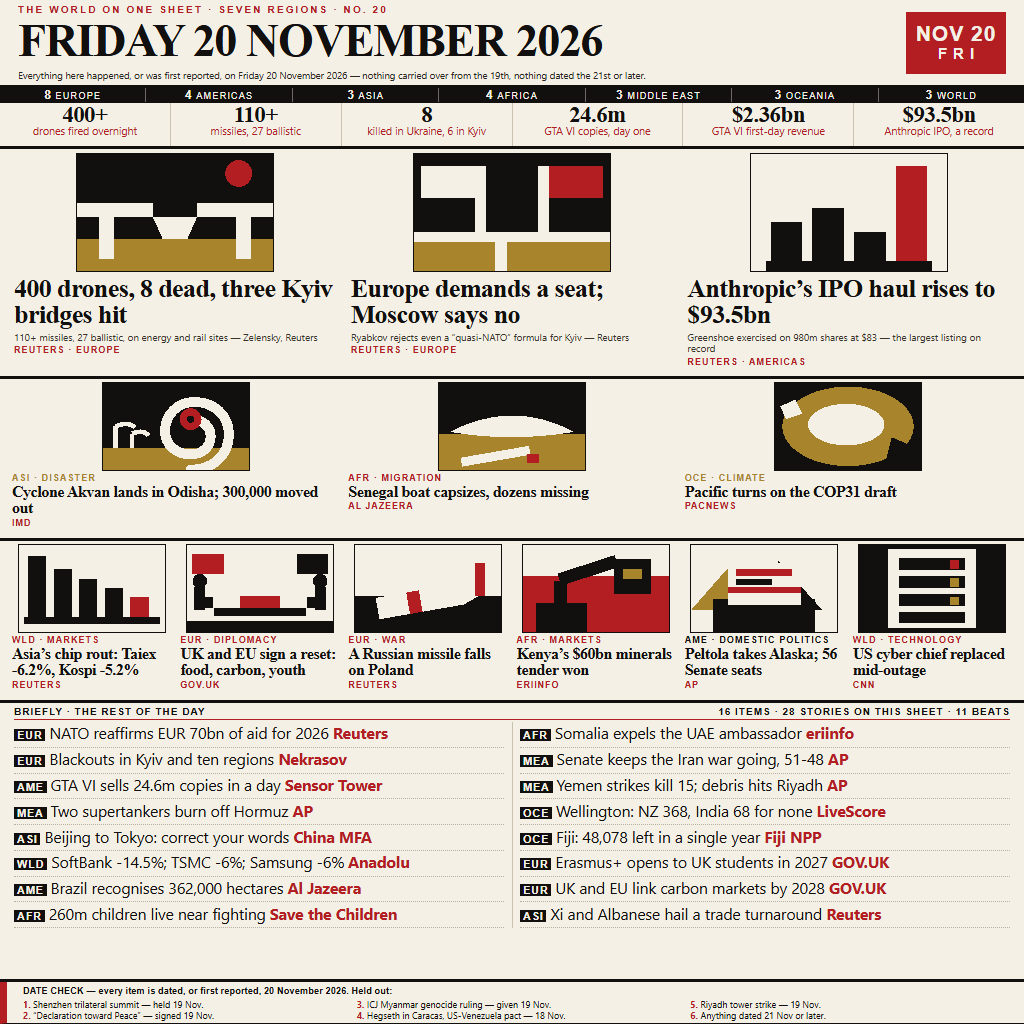
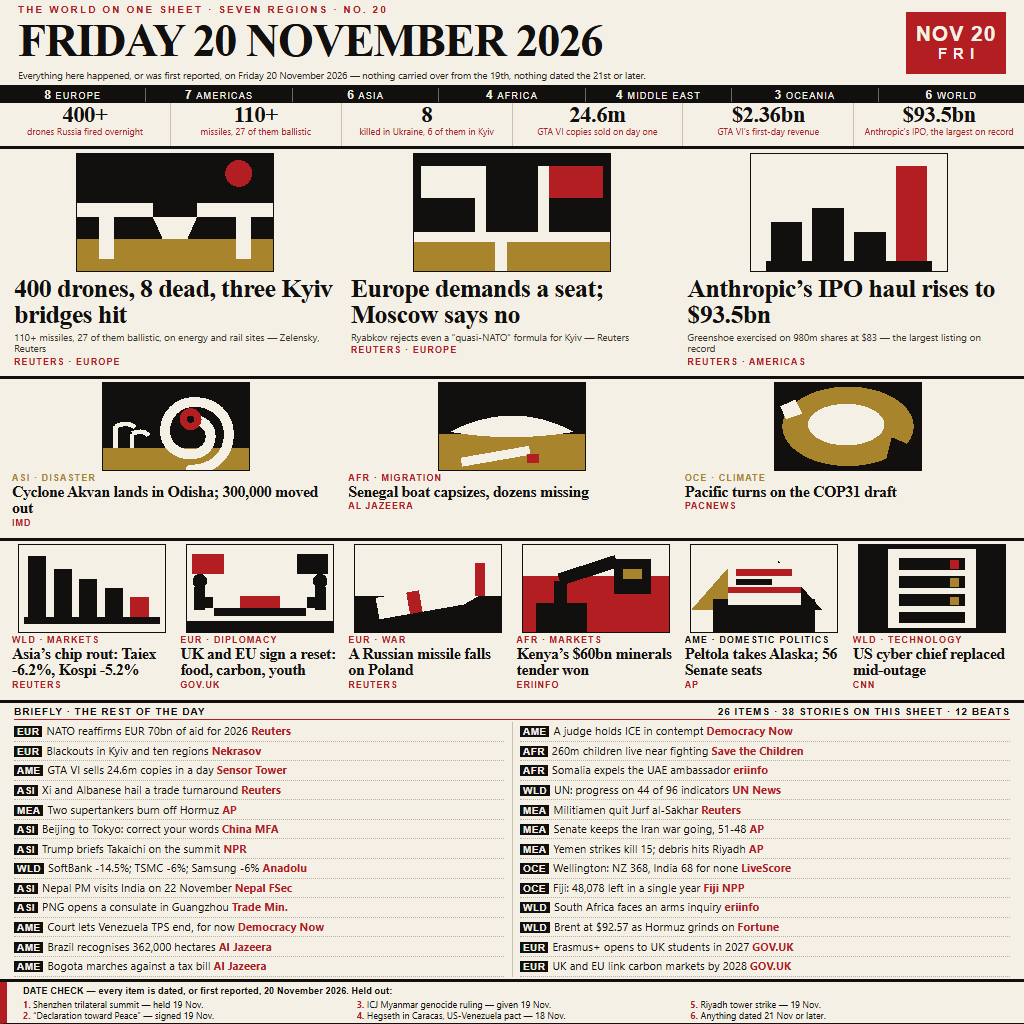
Restore 38 stories; nudge briefs to 12.4px without cutting any story

diff --git a/page.html b/page.html
@@ -32,7 +32,7 @@ html,body{width:1024px;height:1024px;overflow:hidden;background:#f4f0e6;color:#1
   border-right:1px solid #c9c1ae;padding:0 2px}
 .numbers .n:last-child{border-right:0}
 .numbers .v{font-size:23px;font-weight:700;line-height:23px;letter-spacing:-.6px;white-space:nowrap}
-.numbers .lb{font-family:"Segoe UI",Arial,sans-serif;font-size:10.6px;line-height:11.6px;color:#b21e22;
+.numbers .lb{font-family:"Segoe UI",Arial,sans-serif;font-size:9px;line-height:10.4px;color:#b21e22;
   text-align:center;max-width:100%;height:21px;overflow:visible}
 
 .leads{height:230px;display:flex;padding:4px 14px 4px;gap:14px;border-bottom:3px solid #12100e}
@@ -60,9 +60,9 @@ html,body{width:1024px;height:1024px;overflow:hidden;background:#f4f0e6;color:#1
   margin-bottom:2px;display:flex;justify-content:space-between}
 .bh span{color:#12100e;letter-spacing:1px}
 .bcols{columns:2;column-gap:16px;column-rule:1px solid #c9c1ae}
-.brief{font-family:"Segoe UI",Arial,sans-serif;font-size:15.5px;line-height:18px;
-  padding:2.4px 0 2.4px;border-bottom:1px dotted #b9b0a0;break-inside:avoid}
-.brief .rt{font-family:Arial,Helvetica,sans-serif;font-size:11px;font-weight:700;letter-spacing:.7px;
+.brief{font-family:"Segoe UI",Arial,sans-serif;font-size:11.2px;line-height:13.2px;
+  padding:2.2px 0 2.2px;border-bottom:1px dotted #b9b0a0;break-inside:avoid}
+.brief .rt{font-family:Arial,Helvetica,sans-serif;font-size:9.6px;font-weight:700;letter-spacing:.7px;
   background:#12100e;color:#f4f0e6;padding:0 3px;margin-right:4px}
 .brief .ot{color:#b21e22;font-weight:700}
 
@@ -88,9 +88,9 @@ html,body{width:1024px;height:1024px;overflow:hidden;background:#f4f0e6;color:#1
     <div class="redblock"><div class="big">NOV 20</div><div class="sm">FRI</div></div>
   </div>
 
-  <div class="band tally"><div data-region-tally="Europe"><b>8</b>Europe</div><div data-region-tally="Americas"><b>4</b>Americas</div><div data-region-tally="Asia"><b>3</b>Asia</div><div data-region-tally="Africa"><b>4</b>Africa</div><div data-region-tally="Middle East"><b>3</b>Middle East</div><div data-region-tally="Oceania"><b>3</b>Oceania</div><div data-region-tally="World"><b>3</b>World</div></div>
+  <div class="band tally"><div data-region-tally="Europe"><b>8</b>Europe</div><div data-region-tally="Americas"><b>7</b>Americas</div><div data-region-tally="Asia"><b>6</b>Asia</div><div data-region-tally="Africa"><b>4</b>Africa</div><div data-region-tally="Middle East"><b>4</b>Middle East</div><div data-region-tally="Oceania"><b>3</b>Oceania</div><div data-region-tally="World"><b>6</b>World</div></div>
 
-  <div class="band numbers"><div class="n"><div class="v">400+</div><div class="lb">drones fired overnight</div></div><div class="n"><div class="v">110+</div><div class="lb">missiles, 27 ballistic</div></div><div class="n"><div class="v">8</div><div class="lb">killed in Ukraine, 6 in Kyiv</div></div><div class="n"><div class="v">24.6m</div><div class="lb">GTA VI copies, day one</div></div><div class="n"><div class="v">$2.36bn</div><div class="lb">GTA VI first-day revenue</div></div><div class="n"><div class="v">$93.5bn</div><div class="lb">Anthropic IPO, a record</div></div></div>
+  <div class="band numbers"><div class="n"><div class="v">400+</div><div class="lb">drones Russia fired overnight</div></div><div class="n"><div class="v">110+</div><div class="lb">missiles, 27 of them ballistic</div></div><div class="n"><div class="v">8</div><div class="lb">killed in Ukraine, 6 of them in Kyiv</div></div><div class="n"><div class="v">24.6m</div><div class="lb">GTA VI copies sold on day one</div></div><div class="n"><div class="v">$2.36bn</div><div class="lb">GTA VI’s first-day revenue</div></div><div class="n"><div class="v">$93.5bn</div><div class="lb">Anthropic’s IPO, the largest on record</div></div></div>
 
   <div class="band leads"><div class="lead" data-region="Europe" data-beat="war" data-outlet="Reuters">
       <div class="artbox" data-art="bridge"><svg aria-label="400 drones, 8 dead, three Kyiv bridges hit" viewBox="0 0 160 96" width="100%" height="100%" preserveAspectRatio="none" shape-rendering="crispEdges">
@@ -103,7 +103,7 @@ html,body{width:1024px;height:1024px;overflow:hidden;background:#f4f0e6;color:#1
   <rect x="130" y="52" width="12" height="34" fill="#f4f0e6"/>
   <circle cx="132" cy="16" r="11" fill="#b21e22"/></svg></div>
       <h2>400 drones, 8 dead, three Kyiv bridges hit</h2>
-      <div class="deck">110+ missiles, 27 ballistic, on energy and rail sites — Zelensky, Reuters</div>
+      <div class="deck">110+ missiles, 27 of them ballistic, on energy and rail sites — Zelensky, Reuters</div>
       <div class="ft">Reuters · Europe</div>
     </div><div class="lead" data-region="Europe" data-beat="diplomacy" data-outlet="Reuters">
       <div class="artbox" data-art="lecterns"><svg aria-label="Europe demands a seat; Moscow says no" viewBox="0 0 160 96" width="100%" height="100%" preserveAspectRatio="none" shape-rendering="crispEdges">
@@ -259,8 +259,8 @@ html,body{width:1024px;height:1024px;overflow:hidden;background:#f4f0e6;color:#1
     </div></div>
 
   <div class="band briefs">
-    <div class="bh"><span>Briefly · the rest of the day</span><span>16 items · 28 stories on this sheet · 11 beats</span></div>
-    <div class="bcols"><div class="brief" data-region="Europe" data-beat="markets" data-outlet="Reuters"><span class="rt">EUR</span>NATO reaffirms EUR 70bn of aid for 2026 <span class="ot">Reuters</span></div><div class="brief" data-region="Europe" data-beat="energy" data-outlet="Nekrasov"><span class="rt">EUR</span>Blackouts in Kyiv and ten regions <span class="ot">Nekrasov</span></div><div class="brief" data-region="Americas" data-beat="media" data-outlet="Sensor Tower"><span class="rt">AME</span>GTA VI sells 24.6m copies in a day <span class="ot">Sensor Tower</span></div><div class="brief" data-region="Middle East" data-beat="energy" data-outlet="AP"><span class="rt">MEA</span>Two supertankers burn off Hormuz <span class="ot">AP</span></div><div class="brief" data-region="Asia" data-beat="diplomacy" data-outlet="China MFA"><span class="rt">ASI</span>Beijing to Tokyo: correct your words <span class="ot">China MFA</span></div><div class="brief" data-region="World" data-beat="markets" data-outlet="Anadolu"><span class="rt">WLD</span>SoftBank -14.5%; TSMC -6%; Samsung -6% <span class="ot">Anadolu</span></div><div class="brief" data-region="Americas" data-beat="climate" data-outlet="Al Jazeera"><span class="rt">AME</span>Brazil recognises 362,000 hectares <span class="ot">Al Jazeera</span></div><div class="brief" data-region="Africa" data-beat="war" data-outlet="Save the Children"><span class="rt">AFR</span>260m children live near fighting <span class="ot">Save the Children</span></div><div class="brief" data-region="Africa" data-beat="diplomacy" data-outlet="eriinfo"><span class="rt">AFR</span>Somalia expels the UAE ambassador <span class="ot">eriinfo</span></div><div class="brief" data-region="Middle East" data-beat="domestic politics" data-outlet="AP"><span class="rt">MEA</span>Senate keeps the Iran war going, 51-48 <span class="ot">AP</span></div><div class="brief" data-region="Middle East" data-beat="war" data-outlet="AP"><span class="rt">MEA</span>Yemen strikes kill 15; debris hits Riyadh <span class="ot">AP</span></div><div class="brief" data-region="Oceania" data-beat="sport" data-outlet="LiveScore"><span class="rt">OCE</span>Wellington: NZ 368, India 68 for none <span class="ot">LiveScore</span></div><div class="brief" data-region="Oceania" data-beat="migration" data-outlet="Fiji NPP"><span class="rt">OCE</span>Fiji: 48,078 left in a single year <span class="ot">Fiji NPP</span></div><div class="brief" data-region="Europe" data-beat="diplomacy" data-outlet="GOV.UK"><span class="rt">EUR</span>Erasmus+ opens to UK students in 2027 <span class="ot">GOV.UK</span></div><div class="brief" data-region="Europe" data-beat="energy" data-outlet="GOV.UK"><span class="rt">EUR</span>UK and EU link carbon markets by 2028 <span class="ot">GOV.UK</span></div><div class="brief" data-region="Asia" data-beat="diplomacy" data-outlet="Reuters"><span class="rt">ASI</span>Xi and Albanese hail a trade turnaround <span class="ot">Reuters</span></div></div>
+    <div class="bh"><span>Briefly · the rest of the day</span><span>26 items · 38 stories on this sheet · 12 beats</span></div>
+    <div class="bcols"><div class="brief" data-region="Europe" data-beat="markets" data-outlet="Reuters"><span class="rt">EUR</span>NATO reaffirms EUR 70bn of aid for 2026 <span class="ot">Reuters</span></div><div class="brief" data-region="Europe" data-beat="energy" data-outlet="Nekrasov"><span class="rt">EUR</span>Blackouts in Kyiv and ten regions <span class="ot">Nekrasov</span></div><div class="brief" data-region="Americas" data-beat="media" data-outlet="Sensor Tower"><span class="rt">AME</span>GTA VI sells 24.6m copies in a day <span class="ot">Sensor Tower</span></div><div class="brief" data-region="Asia" data-beat="diplomacy" data-outlet="Reuters"><span class="rt">ASI</span>Xi and Albanese hail a trade turnaround <span class="ot">Reuters</span></div><div class="brief" data-region="Middle East" data-beat="energy" data-outlet="AP"><span class="rt">MEA</span>Two supertankers burn off Hormuz <span class="ot">AP</span></div><div class="brief" data-region="Asia" data-beat="diplomacy" data-outlet="China MFA"><span class="rt">ASI</span>Beijing to Tokyo: correct your words <span class="ot">China MFA</span></div><div class="brief" data-region="Asia" data-beat="diplomacy" data-outlet="NPR"><span class="rt">ASI</span>Trump briefs Takaichi on the summit <span class="ot">NPR</span></div><div class="brief" data-region="World" data-beat="markets" data-outlet="Anadolu"><span class="rt">WLD</span>SoftBank -14.5%; TSMC -6%; Samsung -6% <span class="ot">Anadolu</span></div><div class="brief" data-region="Asia" data-beat="diplomacy" data-outlet="Nepal FSec"><span class="rt">ASI</span>Nepal PM visits India on 22 November <span class="ot">Nepal FSec</span></div><div class="brief" data-region="Asia" data-beat="markets" data-outlet="Trade Min."><span class="rt">ASI</span>PNG opens a consulate in Guangzhou <span class="ot">Trade Min.</span></div><div class="brief" data-region="Americas" data-beat="courts" data-outlet="Democracy Now"><span class="rt">AME</span>Court lets Venezuela TPS end, for now <span class="ot">Democracy Now</span></div><div class="brief" data-region="Americas" data-beat="climate" data-outlet="Al Jazeera"><span class="rt">AME</span>Brazil recognises 362,000 hectares <span class="ot">Al Jazeera</span></div><div class="brief" data-region="Americas" data-beat="domestic politics" data-outlet="Al Jazeera"><span class="rt">AME</span>Bogota marches against a tax bill <span class="ot">Al Jazeera</span></div><div class="brief" data-region="Americas" data-beat="courts" data-outlet="Democracy Now"><span class="rt">AME</span>A judge holds ICE in contempt <span class="ot">Democracy Now</span></div><div class="brief" data-region="Africa" data-beat="war" data-outlet="Save the Children"><span class="rt">AFR</span>260m children live near fighting <span class="ot">Save the Children</span></div><div class="brief" data-region="Africa" data-beat="diplomacy" data-outlet="eriinfo"><span class="rt">AFR</span>Somalia expels the UAE ambassador <span class="ot">eriinfo</span></div><div class="brief" data-region="World" data-beat="climate" data-outlet="UN News"><span class="rt">WLD</span>UN: progress on 44 of 96 indicators <span class="ot">UN News</span></div><div class="brief" data-region="Middle East" data-beat="war" data-outlet="Reuters"><span class="rt">MEA</span>Militiamen quit Jurf al-Sakhar <span class="ot">Reuters</span></div><div class="brief" data-region="Middle East" data-beat="domestic politics" data-outlet="AP"><span class="rt">MEA</span>Senate keeps the Iran war going, 51-48 <span class="ot">AP</span></div><div class="brief" data-region="Middle East" data-beat="war" data-outlet="AP"><span class="rt">MEA</span>Yemen strikes kill 15; debris hits Riyadh <span class="ot">AP</span></div><div class="brief" data-region="Oceania" data-beat="sport" data-outlet="LiveScore"><span class="rt">OCE</span>Wellington: NZ 368, India 68 for none <span class="ot">LiveScore</span></div><div class="brief" data-region="Oceania" data-beat="migration" data-outlet="Fiji NPP"><span class="rt">OCE</span>Fiji: 48,078 left in a single year <span class="ot">Fiji NPP</span></div><div class="brief" data-region="World" data-beat="courts" data-outlet="eriinfo"><span class="rt">WLD</span>South Africa faces an arms inquiry <span class="ot">eriinfo</span></div><div class="brief" data-region="World" data-beat="energy" data-outlet="Fortune"><span class="rt">WLD</span>Brent at $92.57 as Hormuz grinds on <span class="ot">Fortune</span></div><div class="brief" data-region="Europe" data-beat="diplomacy" data-outlet="GOV.UK"><span class="rt">EUR</span>Erasmus+ opens to UK students in 2027 <span class="ot">GOV.UK</span></div><div class="brief" data-region="Europe" data-beat="energy" data-outlet="GOV.UK"><span class="rt">EUR</span>UK and EU link carbon markets by 2028 <span class="ot">GOV.UK</span></div></div>
   </div>
 
   <div class="band dc">
@@ -268,5 +268,5 @@ html,body{width:1024px;height:1024px;overflow:hidden;background:#f4f0e6;color:#1
     <div class="cols"><div class="ex"><b>1.</b> Shenzhen trilateral summit — held 19 Nov.</div><div class="ex"><b>2.</b> “Declaration toward Peace” — signed 19 Nov.</div><div class="ex"><b>3.</b> ICJ Myanmar genocide ruling — given 19 Nov.</div><div class="ex"><b>4.</b> Hegseth in Caracas, US-Venezuela pact — 18 Nov.</div><div class="ex"><b>5.</b> Riyadh tower strike — 19 Nov.</div><div class="ex"><b>6.</b> Anything dated 21 Nov or later.</div></div>
   </div>
 
-  <div class="band foot"><span>The World on One Sheet · FRIDAY 20 NOVEMBER 2026</span><span>28 stories · 7 regions · 2026-11-20</span></div>
+  <div class="band foot"><span>The World on One Sheet · FRIDAY 20 NOVEMBER 2026</span><span>38 stories · 7 regions · 2026-11-20</span></div>
 </div></body></html>
